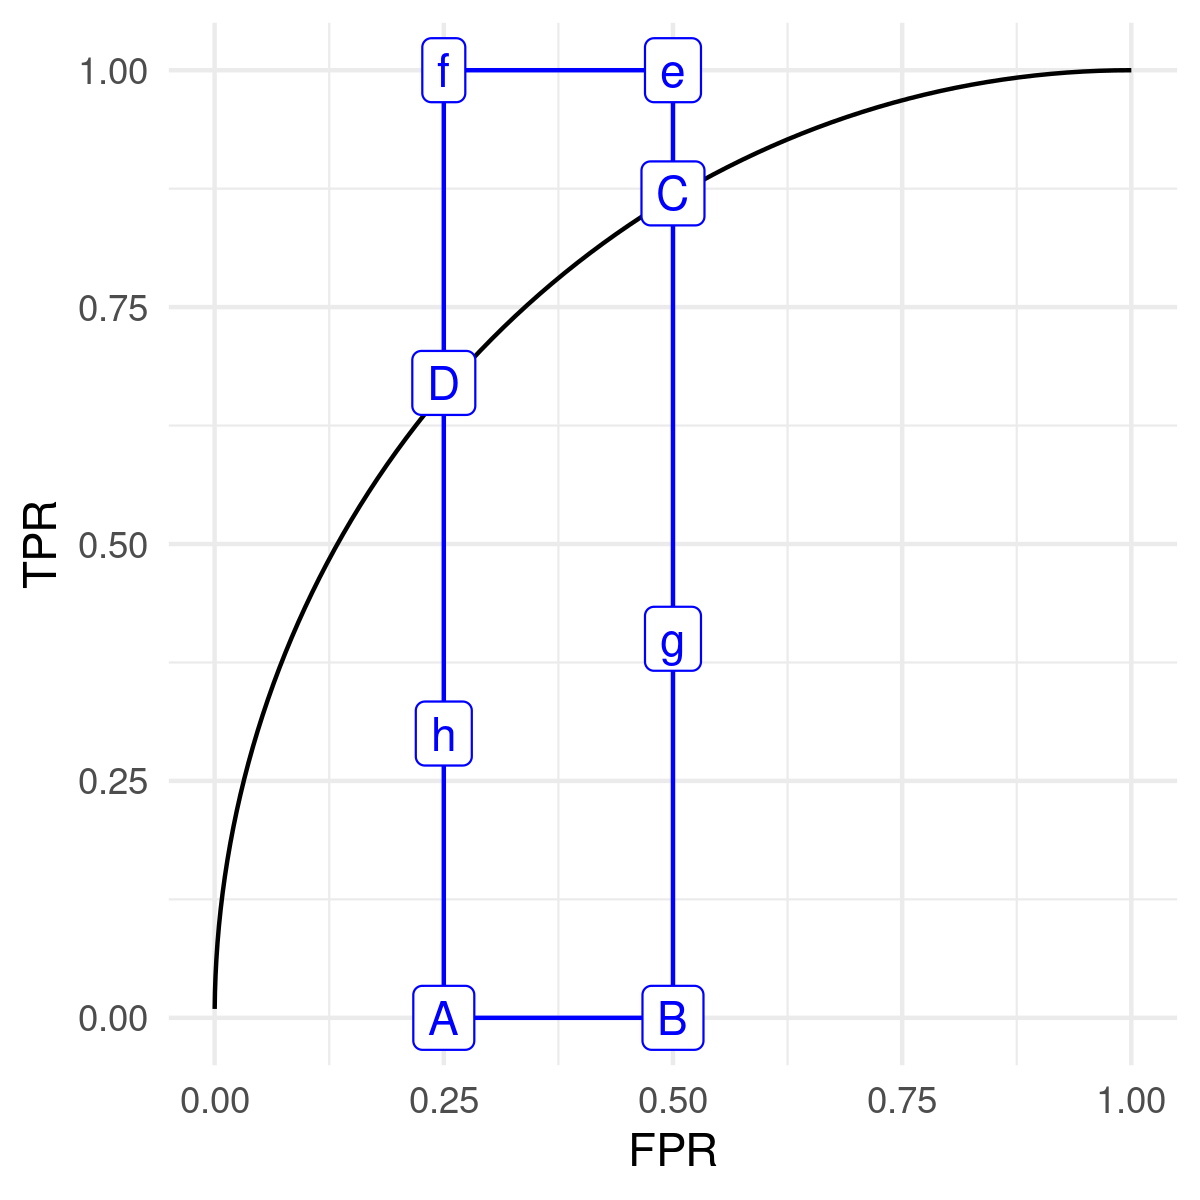
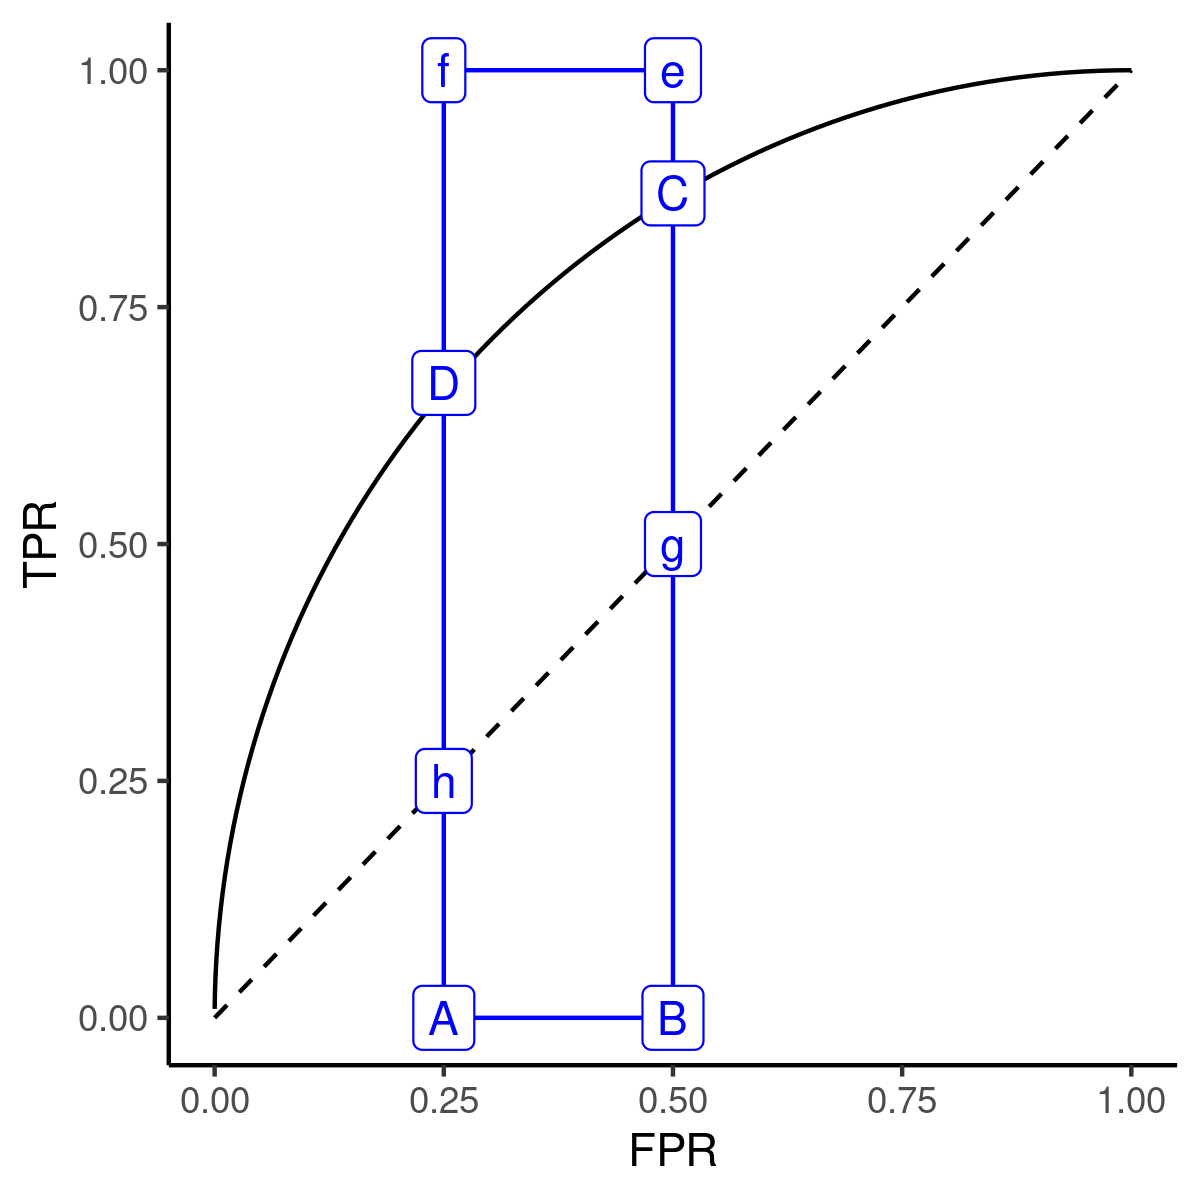
added pauc fig

diff --git a/slides/evaluation/slides-evaluation-roc-auc-extensions.tex b/slides/evaluation/slides-evaluation-roc-auc-extensions.tex
@@ -47,6 +47,7 @@
 \begin{vbframe}{Partial AUC -- example}
 
 \begin{itemize}
+  \footnotesize
   \item Applications where sensitivity and specificity are treated
   asymmetrically often occur in biomedical contexts.
   \item For example,
@@ -54,14 +55,17 @@
   {Wild et al. (2010)} used pAUC in their study of biomarkers for the detection
   of colorectal cancer.
   \item Sensitivity, i.e., being able to correctly detect present diseases, is
-  crucial in this setting.
+  crucial here.
   \item At the same time, high sensitivity is only useful if the classifier also
-  achieves high specificity. \\
-  $\rightarrow$ Otherwise, healthy patients might receive costly and entirely
+  achieves high specificity.
+  $\rightarrow$ Otherwise, healthy patients might receive
   unnecessary treatment.
   \item It is therefore reasonable to demand a certain level of specificity and
   evaluate/optimize learners on the resulting pAUC.
 \end{itemize}
+
+\vfill
+\includegraphics[width=0.35\textwidth]{figure/fig_pauc}
 
 \end{vbframe}
 
